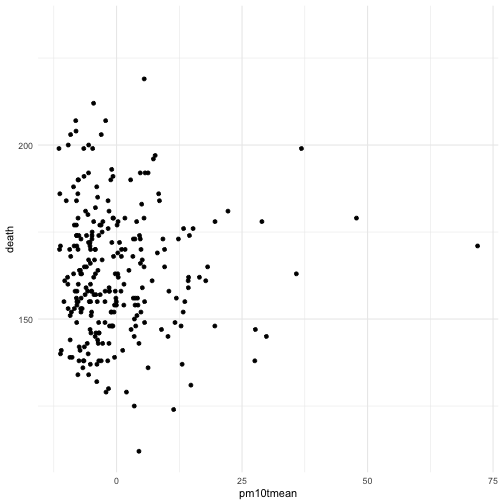
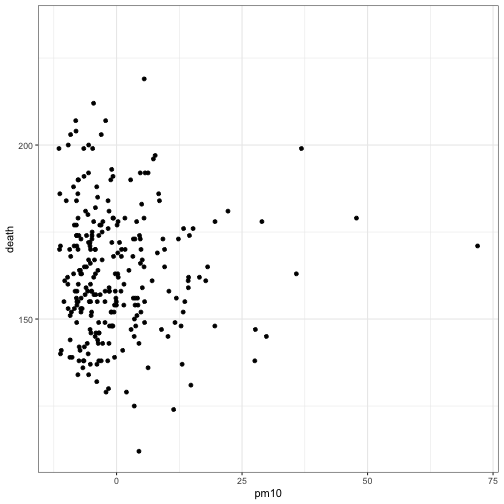
Better spacing

Changed region(s): [[0.9821, 0.0298, 1.0, 0.9226], [0.4762, 0.9524, 0.5952, 1.0]]

diff --git a/manuscript/inferencepred.md b/manuscript/inferencepred.md
@@ -11,7 +11,7 @@ The key things to remember are
 2. For **prediction questions** the goal is to identify a model that *best predicts* the outcome. Typically we do not place any *a priori* importance on the predictors, so long as they are good at predicting the outcome. There is no notion of "confounder" or "predictors of interest" because all predictors are potentially useful for predicting the outcome. Also, we often do not care about "how the model works" or telling a detailed story about the predictors. The key goal is to develop a model with good prediction skill and to estimate a reasonable error rate from the data. 
 
 
-## Air Pollution and Mortality in New York City
+## Air Pollution and Mortality in New York
 
 The following example shows how different types of questions and corresponding modeling approaches can lead to different conclusions. The example uses air pollution and mortality data for New York City. The data were originally used as part of the [National Morbidity, Mortality, and Air Pollution Study](http://www.ihapss.jhsph.edu) (NMMAPS).
 
@@ -39,12 +39,12 @@ Let's take a look at the bivariate association between PM10 and mortality. Here 
 There doesn't appear to be much going on there, and a simple linear regression model of the log of daily mortality and PM10 seems to confirm that.
 
 
-|            | Estimate| Std. Error|    t value| Pr(>&#124;t&#124;)|
-|:-----------|--------:|----------:|----------:|------------------:|
-|(Intercept) | 5.088843|   0.006935| 733.751382|           0.000000|
-|pm10tmean   | 0.000040|   0.000691|   0.058338|           0.953525|
+|            | Estimate| Std. Error|  t value| Pr(>&#124;t&#124;)|
+|:-----------|--------:|----------:|--------:|------------------:|
+|(Intercept) |   5.0888|     0.0069| 733.7514|             0.0000|
+|pm10        |   0.0000|     0.0007|   0.0583|             0.9535|
 
-In the table of coefficients above, the coefficient for `pm10tmean` is quite small and its standard error is relatively large. Effectively, this estimate of the association is zero.
+In the table of coefficients above, the coefficient for `pm10` is quite small and its standard error is relatively large. Effectively, this estimate of the association is zero.
 
 However, we know quite a bit about both PM10 and daily mortality, and one thing we do know is that *season* plays a large role in both variables. In particular, we know that mortality tends to be higher in the winter and lower in the summer. PM10 tends to show the reverse pattern, being higher in the summer and lower in the winter. Because season is related to *both* PM10 and mortality, it is a good candidate for a confounder and it would make sense to adjust for it in the model.
 
@@ -58,9 +58,9 @@ Here are the results for a second model, which includes both PM10 and season. Se
 |seasonQ2    |  -0.1093|     0.0167|  -6.5470|             0.0000|
 |seasonQ3    |  -0.1555|     0.0170|  -9.1618|             0.0000|
 |seasonQ4    |  -0.0603|     0.0167|  -3.6077|             0.0004|
-|pm10tmean   |   0.0015|     0.0006|   2.4348|             0.0156|
+|pm10        |   0.0015|     0.0006|   2.4348|             0.0156|
 
-Notice now that the `pm10tmean` coefficient is quite a bit larger than before and its `t value` is large, suggesting a strong association. How is this possible?
+Notice now that the `pm10` coefficient is quite a bit larger than before and its `t value` is large, suggesting a strong association. How is this possible?
 
 It turns out that we have a classic example of [Simpson's Paradox](https://en.wikipedia.org/wiki/Simpson%27s_paradox) here. The overall relationship between P10 and mortality is null, but when we account for the seasonal variation in both mortality and PM10, the association is positive. The surprising result comes from the opposite ways in which season is related to mortality and PM10.
 
@@ -79,9 +79,9 @@ In the following model we include temperature (`tmpd`) and dew point temperature
 |seasonQ4    |  -0.0315|     0.0183| -1.7213|             0.0864|
 |tmpd        |  -0.0030|     0.0013| -2.2970|             0.0224|
 |dptp        |   0.0007|     0.0010|  0.6604|             0.5096|
-|pm10tmean   |   0.0024|     0.0007|  3.5995|             0.0004|
+|pm10        |   0.0024|     0.0007|  3.5995|             0.0004|
 
-Notice that the `pm10tmean` coefficient is even bigger than it was in the previous model. There appears to still be an association between PM10 and mortality. The effect size is small, but we will discuss that later.
+Notice that the `pm10` coefficient is even bigger than it was in the previous model. There appears to still be an association between PM10 and mortality. The effect size is small, but we will discuss that later.
 
 Finally, another class of potential confounders includes other pollutants. Before we place blame on PM10 as a harmful pollutant, it's important that we examine whether there might be another pollutant that can explain what we're observing. NO2 is a good candidate because it shares some of the same sources as PM10 and is known to be related to mortality. Let's see what happens when we include that in the model.
 
@@ -96,9 +96,9 @@ Finally, another class of potential confounders includes other pollutants. Befor
 |tmpd        |  -0.0030|     0.0013| -2.3092|             0.0217|
 |dptp        |   0.0007|     0.0010|  0.6809|             0.4966|
 |no2tmean    |   0.0013|     0.0009|  1.4677|             0.1434|
-|pm10tmean   |   0.0017|     0.0008|  2.2209|             0.0273|
+|pm10        |   0.0017|     0.0008|  2.2209|             0.0273|
 
-Notice in the table of coefficients that the `no2tmean` coefficient is similar in magnitude to the `pm10tmean` coefficient, although its `t value` is not as large. The `pm10tmean` coefficient appears to be statistically significant, but it is somewhat smaller in magnitude now.
+Notice in the table of coefficients that the `no2tmean` coefficient is similar in magnitude to the `pm10` coefficient, although its `t value` is not as large. The `pm10` coefficient appears to be statistically significant, but it is somewhat smaller in magnitude now.
 
 Below is a plot of the PM10 coefficient from all four of the models that we tried.
 
@@ -115,7 +115,7 @@ Below is a variable importance plot, which is obtained after fitting a random fo
 
 ![Random Forest Variable Importance Plot for Predicting Mortality](images/inferencepred-unnamed-chunk-11-1.png)
 
-Notice that the variable `pm10tmean` comes near the bottom of the list in terms of importance. That is because it does not contribute much to predicting the outcome, mortality. Recall in the previous section that the effect size appeared to be small, meaning that it didn't really explain much variability in mortality. Predictors like temperature and dew point temperature are more useful as predictors of daily mortality. Even NO2 is a better predictor than PM10.
+Notice that the variable `pm10` comes near the bottom of the list in terms of importance. That is because it does not contribute much to predicting the outcome, mortality. Recall in the previous section that the effect size appeared to be small, meaning that it didn't really explain much variability in mortality. Predictors like temperature and dew point temperature are more useful as predictors of daily mortality. Even NO2 is a better predictor than PM10.
 
 However, just because PM10 is not a strong predictor of mortality doesn't mean that it does not have a relevant association with mortality. Given the tradeoffs that have to be made when developing a prediction model, PM10 is not high on the list of predictors that we would include--we simply cannot include every predictor.
 
